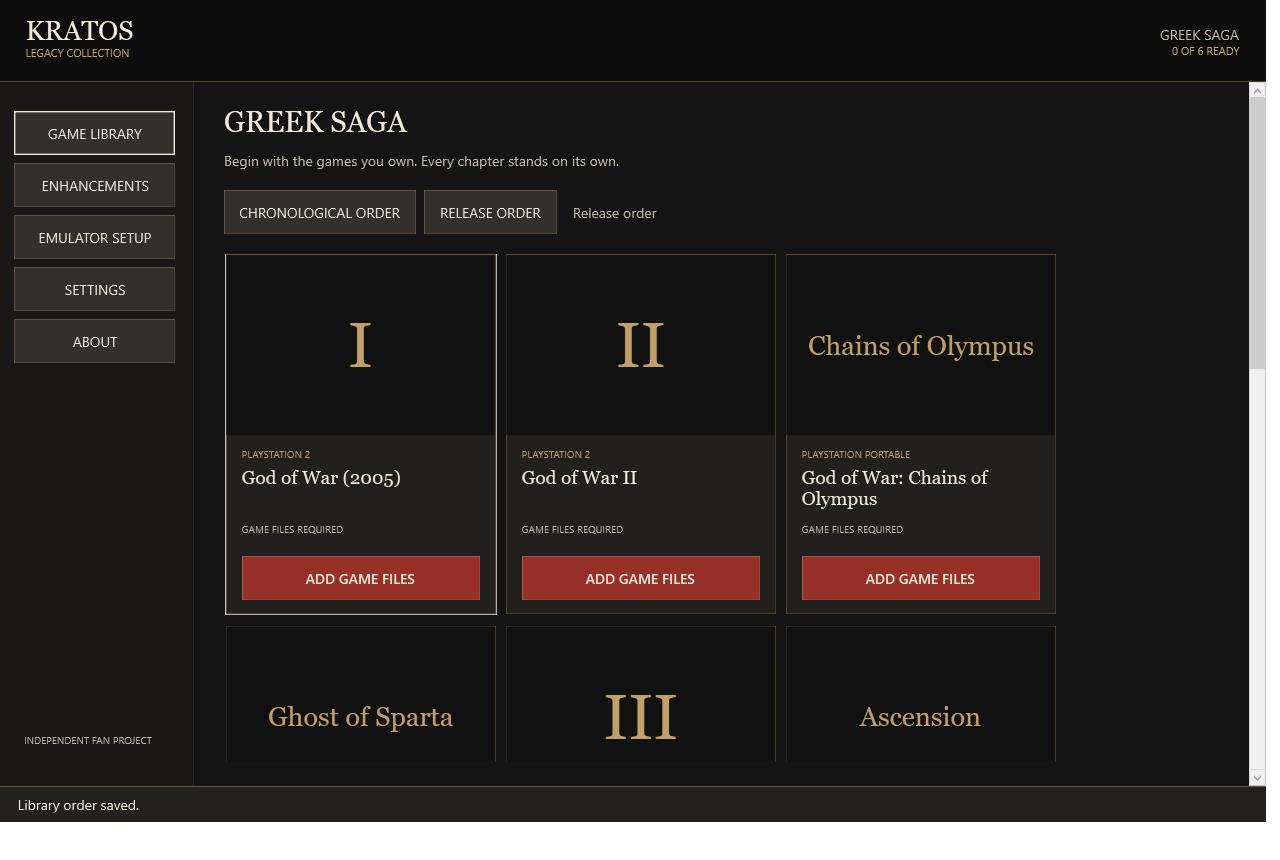
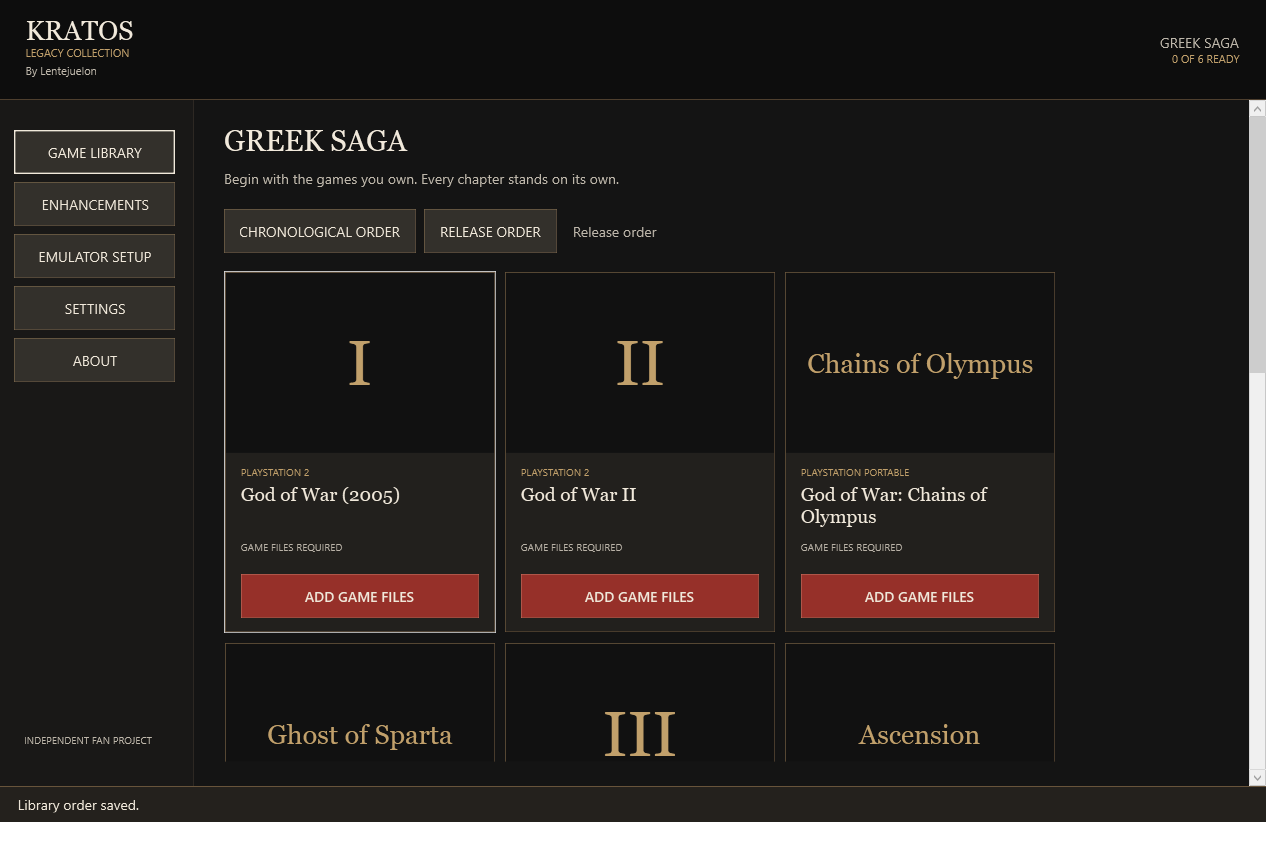
feat: add Spartan shield branding and refine library interactions

diff --git a/src/KratosLegacyCollection.App/MainWindow.xaml b/src/KratosLegacyCollection.App/MainWindow.xaml
@@ -1,4 +1,4 @@
-<Window x:Class="KratosLegacyCollection.App.MainWindow" xmlns="http://schemas.microsoft.com/winfx/2006/xaml/presentation" xmlns:x="http://schemas.microsoft.com/winfx/2006/xaml" xmlns:local="clr-namespace:KratosLegacyCollection.App" Title="Kratos Legacy Collection" Width="1280" Height="860" MinWidth="900" MinHeight="620" Background="{StaticResource Stone}" Foreground="{StaticResource Bone}" FontFamily="Segoe UI" FontSize="14" WindowStartupLocation="CenterScreen" UseLayoutRounding="True" SnapsToDevicePixels="True" AllowDrop="True" Drop="OnDrop">
+<Window x:Class="KratosLegacyCollection.App.MainWindow" xmlns="http://schemas.microsoft.com/winfx/2006/xaml/presentation" xmlns:x="http://schemas.microsoft.com/winfx/2006/xaml" xmlns:local="clr-namespace:KratosLegacyCollection.App" Title="Kratos Legacy Collection" Icon="Assets/kratos-legacy.ico" Width="1280" Height="860" MinWidth="900" MinHeight="620" Background="{StaticResource Stone}" Foreground="{StaticResource Bone}" FontFamily="Segoe UI" FontSize="14" WindowStartupLocation="CenterScreen" UseLayoutRounding="True" SnapsToDevicePixels="True" AllowDrop="True" Drop="OnDrop">
  <Window.Resources>
   <DataTemplate x:Key="EmulatorEditor">
    <Border Background="#202020" BorderBrush="#514738" BorderThickness="0,1,0,0" Padding="18" Margin="0,0,0,16">
@@ -26,9 +26,9 @@
   </DataTemplate>
  </Window.Resources>
  <Grid>
-  <Grid.RowDefinitions><RowDefinition Height="82"/><RowDefinition/><RowDefinition Height="Auto"/></Grid.RowDefinitions>
+  <Grid.RowDefinitions><RowDefinition Height="100"/><RowDefinition/><RowDefinition Height="Auto"/></Grid.RowDefinitions>
   <Border Grid.Row="0" Background="#0D0D0D" BorderBrush="#7E6445" BorderThickness="0,0,0,1" Padding="26,15">
-   <DockPanel><StackPanel DockPanel.Dock="Left"><TextBlock Text="KRATOS" FontFamily="Georgia" FontSize="27"/><TextBlock Text="LEGACY COLLECTION" Foreground="{StaticResource Bronze}" FontSize="11"/></StackPanel><StackPanel HorizontalAlignment="Right" VerticalAlignment="Center"><TextBlock Text="GREEK SAGA" Foreground="{StaticResource Muted}" HorizontalAlignment="Right"/><TextBlock Text="{Binding CollectionSummary}" FontSize="11" Foreground="{StaticResource Bronze}" HorizontalAlignment="Right"/></StackPanel></DockPanel>
+   <DockPanel><StackPanel DockPanel.Dock="Left"><TextBlock Text="KRATOS" FontFamily="Georgia" FontSize="27"/><TextBlock Text="LEGACY COLLECTION" Foreground="{StaticResource Bronze}" FontSize="11"/><TextBlock Text="By Lentejuelon" Foreground="{StaticResource Muted}" FontSize="11" Margin="0,3,0,0"/></StackPanel><StackPanel HorizontalAlignment="Right" VerticalAlignment="Center"><TextBlock Text="GREEK SAGA" Foreground="{StaticResource Muted}" HorizontalAlignment="Right"/><TextBlock Text="{Binding CollectionSummary}" FontSize="11" Foreground="{StaticResource Bronze}" HorizontalAlignment="Right"/></StackPanel></DockPanel>
   </Border>
   <Grid Grid.Row="1" IsEnabled="{Binding CanEdit}">
    <Grid.ColumnDefinitions><ColumnDefinition Width="194"/><ColumnDefinition/></Grid.ColumnDefinitions>
@@ -51,6 +51,7 @@
       <TextBlock Text="Begin with the games you own. Every chapter stands on its own." Foreground="{StaticResource Muted}" Margin="0,0,0,18"/>
       <WrapPanel Margin="0,0,0,14"><Button Content="CHRONOLOGICAL ORDER" Command="{Binding SortChronologically}"/><Button Content="RELEASE ORDER" Command="{Binding SortByRelease}"/><TextBlock Text="{Binding SortLabel}" Foreground="{StaticResource Muted}" VerticalAlignment="Center" Margin="8,0"/></WrapPanel>
       <ListBox x:Name="GameCards" ItemsSource="{Binding Games}" SelectedItem="{Binding Selected}" ScrollViewer.HorizontalScrollBarVisibility="Disabled" ScrollViewer.VerticalScrollBarVisibility="Disabled" AutomationProperties.Name="Greek saga game library">
+       <ListBox.Template><ControlTemplate TargetType="ListBox"><ItemsPresenter/></ControlTemplate></ListBox.Template>
        <ListBox.ItemsPanel><ItemsPanelTemplate><WrapPanel/></ItemsPanelTemplate></ListBox.ItemsPanel>
        <ListBox.ItemTemplate><DataTemplate>
         <Border Width="270" BorderBrush="#69543B" BorderThickness="1" Background="#22201D">

diff --git a/tests/KratosLegacyCollection.UiChecks/Program.cs b/tests/KratosLegacyCollection.UiChecks/Program.cs
@@ -104,12 +104,30 @@ internal static class Program
                 var scroll = Descendants<ScrollViewer>(window).First(s => s.IsVisible);
                 Check("No horizontal content overflow at " + size.Item1, scroll.ExtentWidth <= scroll.ViewportWidth + 1);
             }
+            var cards = (ListBox)window.FindName("GameCards");
+            var libraryScroll = Descendants<ScrollViewer>(window).First(s => s.IsVisible);
+            libraryScroll.ScrollToTop();
+            Pump();
+            var cardSurface = Descendants<Border>(cards).First(b => b.DataContext is GameViewModel);
+            cardSurface.RaiseEvent(new MouseWheelEventArgs(Mouse.PrimaryDevice, Environment.TickCount, -120) { RoutedEvent = Mouse.MouseWheelEvent });
+            Pump();
+            Check("Game card wheel input scrolls the library viewport", libraryScroll.VerticalOffset > 0);
+            cards.IsEnabled = false;
+            Pump();
+            var disabledCards = new RenderTargetBitmap((int)cards.ActualWidth, (int)cards.ActualHeight, 96, 96, PixelFormats.Pbgra32);
+            disabledCards.Render(cards);
+            var disabledPixel = new byte[4];
+            disabledCards.CopyPixels(new Int32Rect((int)cards.ActualWidth - 3, 3, 1, 1), disabledPixel, 4, 0);
+            Check("Busy game library retains its dark or transparent background", disabledPixel[3] == 0 || disabledPixel.Take(3).Max() < 80);
+            cards.IsEnabled = true;
+            libraryScroll.ScrollToTop();
+            Pump();
             foreach (var game in vm.Games)
             {
                 vm.Selected = game;
                 Check("Independent empty status " + game.Name, game.Status == "GAME FILES REQUIRED");
                 Invoke(vm.Play);
-                Check("Missing game produces visible English error", vm.HasError && vm.Message.Contains("not ready"));
+                Check("Missing game produces visible English error for " + game.Name, vm.HasError && vm.Message.Contains("not ready"));
             }
             var artworkPages = new Dictionary<string, string> { ["gow1"] = "36454", ["gow2"] = "35531", ["chains"] = "36385", ["ghost"] = "4561", ["gow3"] = "38217", ["ascension"] = "5248417" };
             foreach (var game in vm.Games)

diff --git a/docs/DEVELOPMENT-REPORT.md b/docs/DEVELOPMENT-REPORT.md
@@ -36,7 +36,7 @@ A second, small PPSSPP copy tested a 2x temporary profile. Chains of Olympus rea
 
 Completed emulator test copies and helper builds were deleted. The full PPSSPP and PCSX2 clones alone recovered approximately 15.46 GB. Original games, saves, configurations, BIOS and texture directories were preserved. Private settings and extracted artwork remain outside the public repository.
 
-The owner subsequently authorized physical migration to removable storage. Copying and individual SHA-256 verification of the PS2/PSP games, portable emulator copies and their existing data is in progress. Original PC installations and collection files remain in place. Existing PS3 disc content and an unrelated movie remain outside the application folder and repository.
+The owner subsequently authorized physical migration to removable storage. Copying, individual SHA-256 transfer verification, portable configuration, preservation checks and a file audit completed. The real USB launcher then booted all four PS2/PSP titles to their main menus through their separate PLAY controls and copied emulators. Native texture-replacement settings were retained; modified menus were visible in both PSP titles and God of War II. Twenty-six copied saves, memory cards and save states still matched their transfer hashes after the tests. Original PC installations and collection files remain in place. Existing PS3 disc content and an unrelated movie remain outside the application folder and repository.
 
 God of War III BCES00510 was launched from its existing removable-drive folder using the owner's PC RPCS3 0.0.43 installation. The matching owner-provided European update was installed first; metadata and the boot log confirmed 01.03. The native custom configuration was loaded. After changing its exclusive-fullscreen option to Disable, a new boot reached the main menu with owner assistance. No global Windows HDR setting was changed. The game was closed after the boot check; prolonged gameplay and performance have not been certified. Details and limits are recorded in [Testing](TESTING.md).
 
@@ -44,14 +44,14 @@ God of War III BCES00510 was launched from its existing removable-drive folder u
 
 - Release build: success, zero warnings and zero errors.
 - Core regression suite: 50/50 cases passed using legal generated fixtures, including collection-relative and removable-volume drive changes.
-- WPF suite: 78 distinct assertions passed; repeated command-availability assertions are excluded from this count. Three rendered sizes, navigation and command routes, binding diagnostics, sorting and artwork decoding were checked.
+- WPF suite: 80 distinct assertions passed; repeated command-availability assertions are excluded from this count. Three rendered sizes, navigation and command routes, binding diagnostics, sorting, artwork decoding, library wheel routing and the loading-state background were checked.
 - Self-contained package: started natively; welcome, five-step setup, empty library, sorting and native executable-picker opening/cancellation were exercised. Duplicate collection opening produces an English error.
 - Native dialogs and external services are injected boundaries in automated tests; no claim is made that every OS dialog or third-party emulator feature was manually exercised.
 - [UI delivery gate](UI-VERIFICATION.md) records presentation evidence. [Testing](TESTING.md) distinguishes automated coverage from remaining hardware and real-game checks.
 
 ## Remaining acceptance and limits
 
-Ascension boot, full gameplay, actual performance, controller acceptance, per-monitor DPI changes, another PC and physical USB disconnection/reconnection remain manual acceptance items. The ongoing PS2/PSP transfer still requires final verification and launch checks. The launcher does not promise Ultra HD performance on arbitrary hardware.
+Ascension boot, full gameplay, actual performance, controller acceptance, per-monitor DPI changes, another PC and physical USB disconnection/reconnection remain manual acceptance items. The launcher does not promise Ultra HD performance on arbitrary hardware.
 
 No authorized Modder Espartano archive was obtained or inspected. The creator channel, original God of War II publication and public Discord invitation were verified, but exact pack versions, regions, archive layouts and redistribution permissions remain unestablished. No invented package catalog or unverified patch code is shipped. 7Z extraction is not implemented; ZIP is explicitly supported. Native game widescreen and output stretching are distinguished.
 

diff --git a/docs/TESTING.md b/docs/TESTING.md
@@ -6,7 +6,7 @@ The core suite uses generated ISO9660 directories, PARAM.SFO records, tiny PNGs,
 
 WPF checks instantiate the real application resources and window on an STA dispatcher, exercise view-model command routes, render the interface at 900x650, 1280x860 and 1600x900, inspect binding diagnostics and validate logical focus. File dialogs, external browser launches and confirmation answers are injected test boundaries. These checks are not a claim that every native Windows dialog was manually clicked.
 
-The latest local run on 2026-10-27 passed 50/50 core cases and 78 distinct WPF assertions, excluding repeated command-availability checks. Release compilation completed with zero warnings and zero errors. The self-contained Windows x64 folder was published locally; no GitHub workflow was run remotely.
+The latest local run on 2026-10-27 passed 50/50 core cases and 80 distinct WPF assertions, excluding repeated command-availability checks. Release compilation completed with zero warnings and zero errors. The self-contained Windows x64 folder was published locally; no GitHub workflow was run remotely.
 
 ## Acceptance matrix
 
@@ -34,6 +34,7 @@ The latest local run on 2026-10-27 passed 50/50 core cases and 78 distinct WPF a
 | English UI | Application copy and validation messages are English; binding routes exercised. | User filenames and third-party emulator UI retain their own language. |
 | Artwork | Embedded PSP/PS3 extraction, PNG/JPEG safety limits, real WPF image decoding and manual import. | Review source rights before publishing user images. |
 | Sorting | Exact requested chronological and release sequences, selection preservation and saved preference. | Click the two library controls in the packaged build. |
+| Library wheel and loading state | Wheel input over a real card scrolls the outer viewport; a disabled-card render retains a dark or transparent background. | Confirm wheel scrolling and loading appearance in the native package. |
 
 ## Private integration checks
 
@@ -49,4 +50,10 @@ God of War III (BCES00510) booted from its existing removable-drive disc folder 
 
 At the owner's request, only the custom profile's Vulkan `Exclusive Fullscreen Mode` was changed from `Automatic` to `Disable` before restarting. The next boot log confirmed that value and `VK_FULL_SCREEN_EXCLUSIVE_DISALLOWED_EXT`. Windows HDR settings were not changed. Controller configuration was performed by the owner afterward and is not an automated test result.
 
-The copy and verification of the PS2/PSP collection to removable storage is in progress. Its final launch checks, physical drive-letter changes, another PC and extended gameplay remain acceptance items. Ascension has no user-provided game files and has not been booted. No public screenshot or test fixture includes personal or commercial game content.
+The owner-authorized copy and file audit to removable storage completed. PCSX2 and PPSSPP use copied executables, local data folders, user-provided BIOS where needed, saves and existing texture replacements. The existing PC RPCS3 remains external. All original PC emulator installations and collection files were retained. The pre-existing USB disc/movie inventory passed size/timestamp checks; critical disc metadata and boot files also passed SHA-256 checks. This was not a full re-hash of the existing movie or disc folder.
+
+The real USB launcher displayed five ready titles and started God of War (2005), God of War II, Chains of Olympus and Ghost of Sparta through their individual PLAY controls. All four reached their main menus using the USB emulator copies. Modified texture-pack menus were visible in both PSP games and God of War II. Twenty-six copied save, memory-card and save-state files still matched their transfer hashes after these tests, as did their original source files. This verifies menu boot and preservation, not full gameplay, controller calibration or every texture replacement.
+
+An actual native wheel-scrolling failure and light background during loading were reproduced with WPF checks before replacing the library's redundant inner scrolling template. Both focused checks then passed. The header includes the owner-requested credit and an original seven-size Spartan shield icon, decoded by the asset generator.
+
+Physical drive-letter changes, another PC, controller acceptance and extended gameplay remain manual items. Ascension has no user-provided game files and has not been booted. No public screenshot or test fixture includes personal or commercial game content.

diff --git a/docs/UI-VERIFICATION.md b/docs/UI-VERIFICATION.md
@@ -2,7 +2,7 @@
 
 Result: PASS for the local launcher candidate, 2026-10-27. Scope is the launcher; third-party emulator internals and the manual hardware checks in TESTING.md are not certified here.
 
-Evidence: Release compilation; 78 distinct STA WPF assertions; generated-content core cases; actual renders at 900x650, 1280x860 and 1600x900; native packaged welcome/setup/empty-library/sorting and executable-picker opening/cancellation. Automated OS-dialog answers are injected, as explained in TESTING.md. This report does not claim a manual click on every native dialog or full game compatibility.
+Evidence: Release compilation; 80 distinct STA WPF assertions; generated-content core cases; actual renders at 900x650, 1280x860 and 1600x900; native packaged welcome/setup/empty-library/sorting and executable-picker opening/cancellation. Automated OS-dialog answers are injected, as explained in TESTING.md. This report does not claim a manual click on every native dialog or full game compatibility.
 
 ## Hard gate
 
@@ -55,3 +55,11 @@ Evidence: Release compilation; 78 distinct STA WPF assertions; generated-content
 - R-16 PASS: removed the owner-rejected marketing slogans; no AI marketing buzzwords are present.
 - R-21/R-29 PASS: dark stone, bronze and restrained red follow the owner's supplied palette; neutrals carry most of the screen.
 - R-30 PASS: no official game UI, protected logo or unrelated commercial product layout was cloned.
+
+## Library and identity follow-up, 2026-10-27
+
+- R-03/R-32 PASS: the wheel regression failed before the fix, then passed after removing the library's redundant inner scrolling template. Native wheel input over a game card also moved the USB application's viewport. All three updated renders were visually reviewed.
+- R-27/R-35 PASS: the disabled-library pixel check retains a dark or transparent background; Release build, 50 core cases and 80 uniquely named WPF assertions passed. Four actual PLAY controls in the USB package booted their individual PS2/PSP games to their menus.
+- R-23/R-30 PASS: the owner explicitly requested the author credit and a Spartan shield. The SVG is original geometric work; its seven generated ICO sizes decode successfully. No official game logo or character image is embedded in the executable.
+- R-25/C-4 PASS: "By Lentejuelon" uses the existing muted text brush beneath the title, with adequate header height at all three tested sizes. The running USB application showed the credit and shield title-bar icon together with five ready entries.
+- C-5 PASS: real menu boots, source/save hash preservation and generated-fixture checks are identified separately from pending full gameplay, controller and cross-PC acceptance. Public renders still contain only original placeholders and generated data.

diff --git a/docs/IMPLEMENTATION.md b/docs/IMPLEMENTATION.md
@@ -9,7 +9,7 @@ The public repository contains source and original presentation assets only. Run
 5. Mods: local ZIP inspection, multiple documented layouts, isolated staging, ownership manifests, reversible install/disable/uninstall and conflict detection. 7Z is rejected unless a safe supported implementation is available.
 6. Patches: user-supplied version-specific files, strict identity checks, emulator-native patch workflows and individual graphics profiles. No guessed patch codes.
 7. Visuals: original Greek architectural motifs, DPI-aware WPF, keyboard focus, motion preference and compact layout.
-8. Personal installation: read-only inventory, isolated SSD smoke tests and an owner-authorized removable-drive migration with individual copy verification. PCSX2 and PPSSPP use portable copies; RPCS3 remains on the PC. Existing files and original PC installations are retained. Transfer and final portable launch acceptance are still in progress.
+8. Personal installation: read-only inventory, isolated SSD smoke tests and an owner-authorized removable-drive migration with individual copy verification. PCSX2 and PPSSPP use portable copies; RPCS3 remains on the PC. The four copied PS2/PSP titles reached their menus through the actual USB launcher. Existing files and original PC installations are retained; full gameplay and cross-PC acceptance remain separate.
 9. Verification: dependency-free executable regression suite, real WPF smoke checks, build/publish and English documentation. Commercial-game boot and hardware calibration require user-owned content and remain explicitly manual.
 
 ## Architecture

diff --git a/README.md b/README.md
@@ -59,6 +59,8 @@ dotnet publish src/KratosLegacyCollection.App -c Release -r win-x64 --self-conta
 
 Publishing may need NuGet access for Microsoft's runtime packs. Close the running development build before rebuilding its output folder. The test suite creates legal generated fixtures under `artifacts/test-runs`, returns a nonzero exit code on failure and never requires commercial games. Use `./scripts/Build.ps1 -Publish` to run the full sequence and copy the project's license, README, credits and the matching Microsoft runtime license notices into the distributable folder. Keep those notices with any shared build.
 
+The original Spartan shield icon is included as editable SVG and a seven-size ICO. After editing the SVG, regenerate the ICO on Windows with `powershell.exe -NoProfile -STA -File scripts/Build-Icon.ps1`, then rebuild. The generator uses WPF and adds no application dependency.
+
 ## Documentation
 
 - [Architecture and implementation](docs/IMPLEMENTATION.md)

diff --git a/CREDITS.md b/CREDITS.md
@@ -6,6 +6,7 @@
 - Modder Espartano: [creator channel](https://www.youtube.com/@modderespartano). The [Discord invitation](https://discord.com/invite/dmgWJtZDsB) is linked in the creator's [original publication](https://www.youtube.com/watch?v=0wsqJFCK15Y), verified on 2026-10-27. No pack or redistribution permission is implied by this credit.
 - Other texture and patch authors retain all rights to their own contributions. The importer records author credit supplied by the user.
 - Original geometric temple illustrations: Kratos Legacy Collection contributors, MIT.
+- Original bronze Spartan shield and red lambda application icon: Kratos Legacy Collection contributors, MIT. Editable SVG and multi-size ICO sources are included.
 - Georgia, Segoe UI and Consolas: Windows system fonts; no font files are included.
 - .NET runtime: Microsoft and contributors. Preserve the runtime license and third-party notices in self-contained builds.
 

diff --git a/DESIGN.md b/DESIGN.md
@@ -2,6 +2,8 @@
 
 Derived from the owner's specification. ENERGY 3 / RHYTHM 2 / MOTION 2.
 
+The owner-requested "By Lentejuelon" credit sits below the application title. The original application icon is a circular bronze Spartan shield with a red lambda, built from editable vector paths. Its broad rim and simple center remain readable in the Windows title bar and taskbar; no official game logo is used.
+
 A Windows game library for owners of the Greek saga, expressed as an eroded stone archive with bronze inscriptions and a restrained blood-red action color. The interface uses original vector architecture, never game artwork or official logos.
 
 - Charcoal (#141414) and bone (#F1E9DB) keep the library legible; bronze (#C1A06B) establishes navigation; red (#B53932) identifies the primary action.
